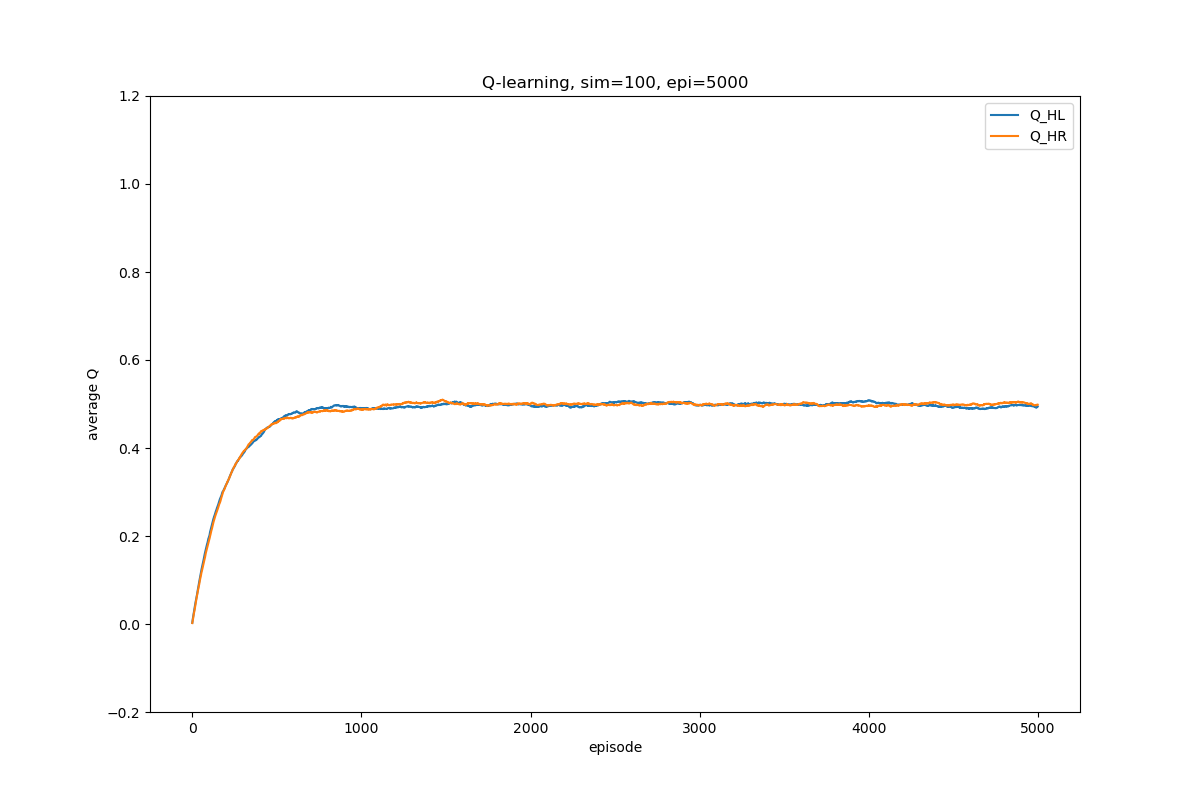
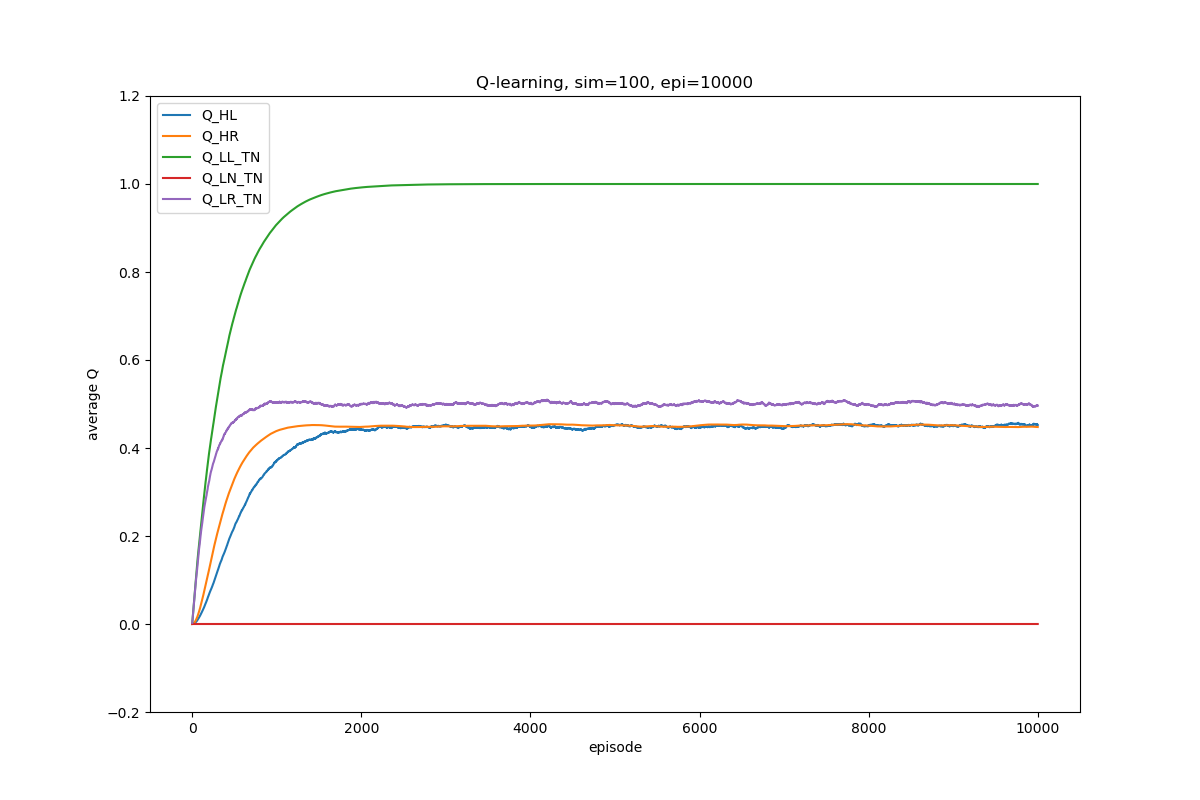
終端状態TNの追加

diff --git a/env.py b/env.py
@@ -2,38 +2,52 @@ import numpy as np
 
 class Environment:
     def __init__(self):
-        self.map = np.array([0, 1, 2, 3]) #0:START, 1:LL, 2:LN, 3:LR
+        self.map = np.array([0, 1, 2, 3, 4]) #0:START, 1:LL, 2:LN, 3:LR, 4:TN
         self.start_position = self.map[0] #START=0
         self.agent_position = self.start_position
+        self.past_agent_position = self.agent_position
+        self.past_action = -1
 
     def reset(self):
         self.agent_position = self.start_position
+        self.past_agent_position = self.agent_position
+        self.past_action = -1
         return self.agent_position, False
 
     def update_state(self, action):
         if action == 0: #action=HL, p=0.5でLL遷移, p=0.5でLN遷移
+            self.past_action = action
             if np.random.rand() >= 0.5:
+                self.past_agent_position = self.agent_position
                 self.agent_position = 1 #LLに遷移
-                return self.agent_position
             else:
+                self.past_agent_position = self.agent_position
                 self.agent_position = 2 #LNに遷移
-                return self.agent_position
         elif action == 1: #action=HR, p=1でLRに遷移
+            self.past_action = action
+            self.past_agent_position = self.agent_position
             self.agent_position = 3
-            return self.agent_position
+        else:
+            self.past_agent_position = self.agent_position
+            self.agent_position = 4 #action=STAY, TNに遷移
 
-    def step(self, state, action):
-        next_state = self.update_state(action)
+    def step(self, action):
+        self.update_state(action)
         reward = self.reward()
-        return reward, next_state
+        done = (self.agent_position == 4)
+        return self.agent_position, reward, done
 
     def reward(self):
-        if self.agent_position == 1: #状態がLL
-            return 1
-        elif self.agent_position == 2: #状態がLN
+        if self.agent_position == 4:
+            if self.past_action == 0:
+                if self.past_agent_position == 1:
+                    return 1
+                elif self.past_agent_position == 2:
+                    return 0
+            elif self.past_action == 1:
+                if np.random.rand() >= 0.5: #p=0.5で報酬1or0
+                    return 1
+                else:
+                    return 0
+        else:
             return 0
-        elif self.agent_position == 3: #状態がLR
-            if np.random.rand() >= 0.5: #p=0.5で報酬1or0
-                return 1
-            else:
-                return 0

diff --git a/simulator.py b/simulator.py
@@ -10,7 +10,7 @@ class Simulator:
         self.epi = episode
         self.env = Environment()
         self.algorithm = QLearning()
-        self.Q = np.zeros((self.sim, self.epi, 2)) #Q_HL, Q_HR
+        self.Q = np.zeros((self.sim, self.epi, 5)) #Q_HL, Q_HR, Q_LL, Q_LN, Q_LR
         self.V = np.zeros((self.sim, self.epi, 4)) #START, LL, LN, LR
         self.td_error_v = np.zeros((self.sim, self.epi, 4)) #START, LL, LN, LR
         self.action_count = np.zeros((self.sim, self.epi, 2)) #HL, HR
@@ -19,13 +19,13 @@ class Simulator:
         for s in tqdm(range(self.sim)):
             self.algorithm.reset()
             for e in range(self.epi):
-                state, done = self.env.reset() #state=START=, #doneは終端状態=True, Not終端状態=False
+                state, done = self.env.reset() #state=START, #doneは終端状態=True, Not終端状態=False
                 while not done:
                     action = self.algorithm.act(state)
-                    reward, next_state = self.env.step(state, action)
-                    Q_HL, Q_HR, done, V_START, V_LL, V_LN, V_LR, td_error_v = self.algorithm.update(state, action, reward, next_state)
-                    self.Q[s, e] = Q_HL, Q_HR
-                    self.V[s, e] = V_START, V_LL, V_LN, V_LR
+                    next_state, reward, done = self.env.step(action)
+                    Q, V, td_error_v = self.algorithm.update(state, action, reward, next_state)
+                    self.Q[s, e] = Q
+                    self.V[s, e] = V
                     self.td_error_v[s, e] = td_error_v
                     state = next_state
                     if action != 2: self.action_count[s, e, action] = 1
@@ -38,6 +38,9 @@ class Simulator:
         figure = plt.figure(figsize=(12, 8))
         plt.plot(np.arange(self.epi), np.mean(self.Q[:, :, 0], axis=0), label='Q_HL')
         plt.plot(np.arange(self.epi), np.mean(self.Q[:, :, 1], axis=0), label='Q_HR')
+        plt.plot(np.arange(self.epi), np.mean(self.Q[:, :, 2], axis=0), label='Q_LL_TN')
+        plt.plot(np.arange(self.epi), np.mean(self.Q[:, :, 3], axis=0), label='Q_LN_TN')
+        plt.plot(np.arange(self.epi), np.mean(self.Q[:, :, 4], axis=0), label='Q_LR_TN')
         plt.title(f'Q-learning, sim={self.sim}, epi={self.epi}')
         plt.xlabel('episode')
         plt.ylabel('average Q')

diff --git a/q_learning.py b/q_learning.py
@@ -23,17 +23,19 @@ class QLearning:
         if action == 0 or action == 1: #action=0:HL or 1:HR, state=0:START
             #0:START, 1:LL, 2:LN, 3:LR
             max_Q = self.Q[next_state+1] #(状態,行動) = 2:(LL,STAY), 3:(LN,STAY), 4:(LR,STAY)
-            td_error_q = reward + self.gamma * max_Q  - self.Q[action] #(状態,行動) = 0:(START,HL), 1:(START,HR)
+            td_error_q = reward + self.gamma * max_Q - self.Q[action] #(状態,行動) = 0:(START,HL), 1:(START,HR)
             self.Q[action] += self.alpha * td_error_q
             td_error_v = reward + self.gamma * self.V[next_state] - self.V[state]
             self.V[state] += self.alpha * td_error_v
             self.td_error_v[state] = td_error_v
-            return self.Q[0], self.Q[1], False, self.V[0], self.V[1], self.V[2], self.V[3], self.td_error_v
-        else: #action=2:STAY
+            return self.Q, self.V, self.td_error_v
+        else: #action=2:STAY, next_state=4:TN, state=1:(LL), 2:(LN), 3(LR)
+            td_error_q = reward - self.Q[state+1]
+            self.Q[state+1] += self.alpha * td_error_q #(状態,行動) = 2:(LL,STAY), 3:(LN,STAY), 4:(LR,STAY)
             td_error_v = reward - self.V[state]
             self.V[state] += self.alpha * td_error_v
             self.td_error_v[state] = td_error_v
-            return self.Q[0], self.Q[1], True, self.V[0], self.V[1], self.V[2], self.V[3], self.td_error_v
+            return self.Q, self.V, self.td_error_v
 
 
     def softmax(self):

diff --git a/main.py b/main.py
@@ -2,7 +2,7 @@ from simulator import Simulator
 
 def main():
     trial = 100 #シミュレーション数
-    episode = 5000
+    episode = 10000
     sim = Simulator(trial, episode)
     sim.run()
 
